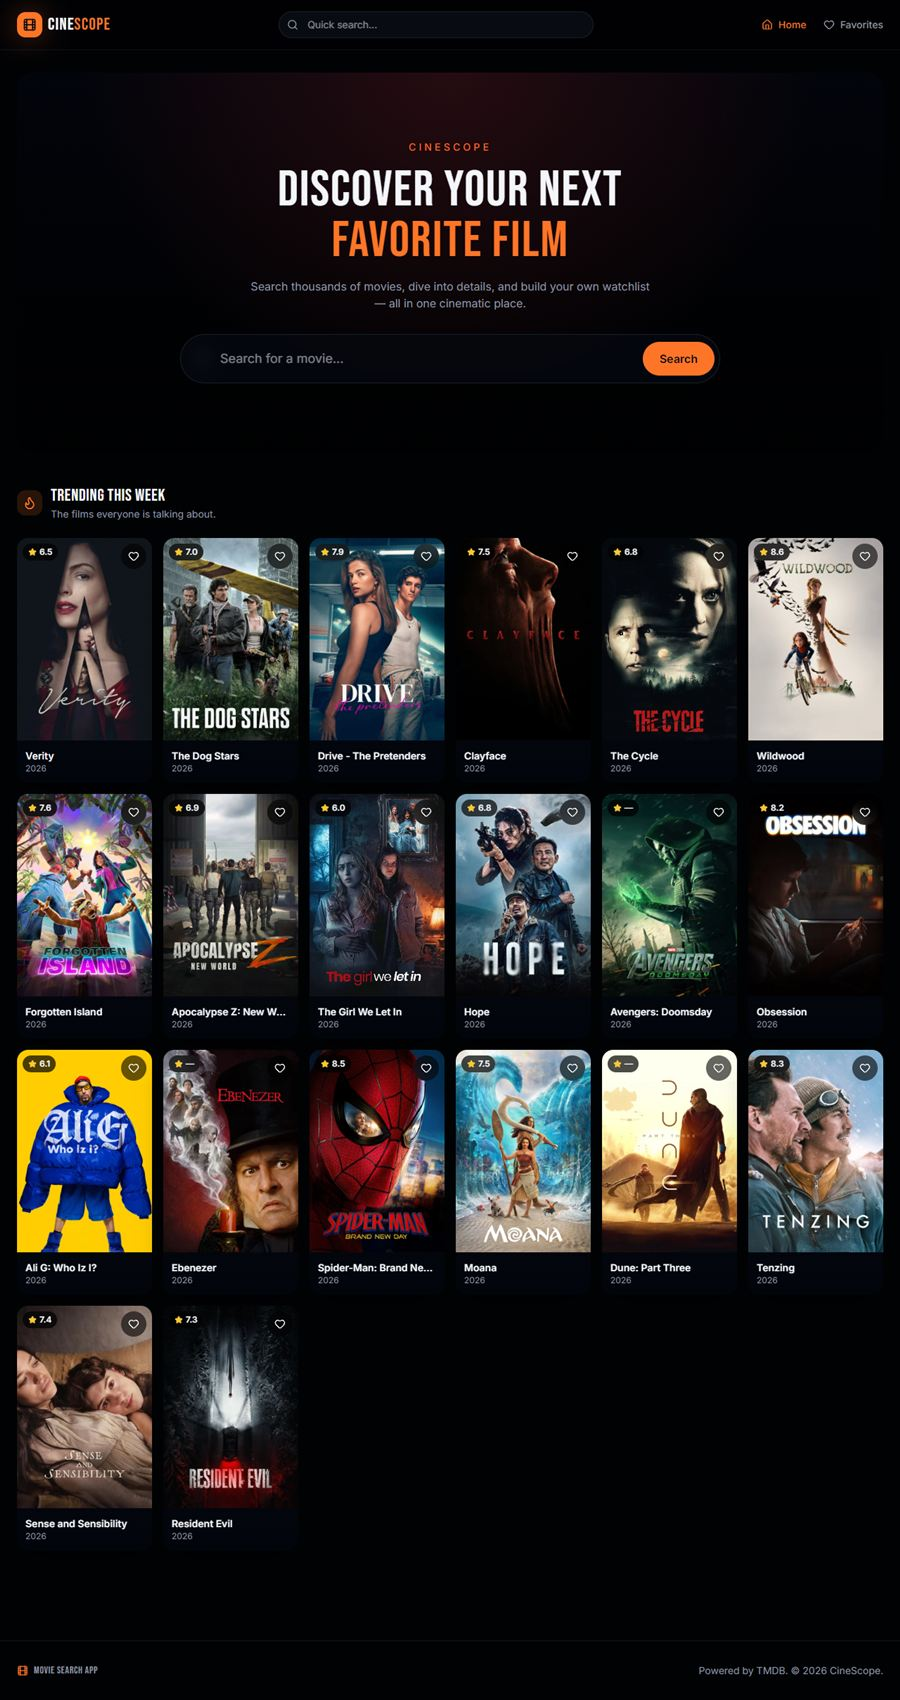
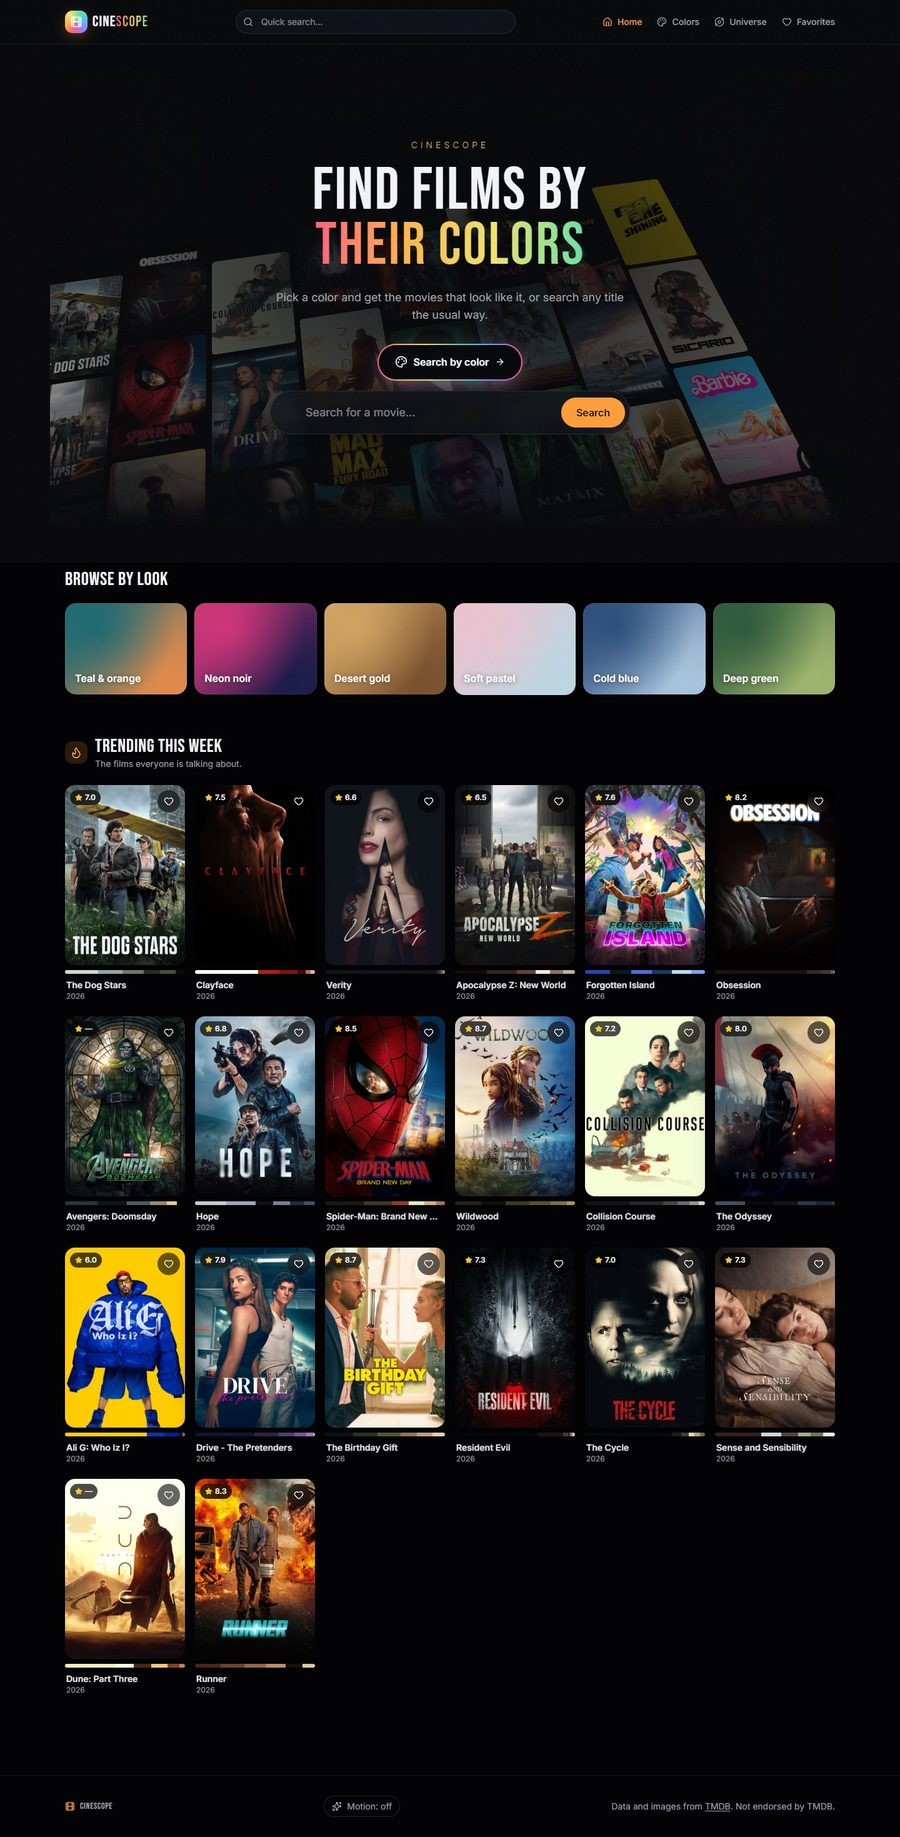
Show the new CineScope on the Work page

diff --git a/work.html b/work.html
@@ -212,15 +212,15 @@ valid BHF archive: 3 entries</pre>
           <article class="card" style="--i:2" data-card>
             <div class="card-info">
               <h2 class="card-title">Cinescope</h2>
-              <p class="card-stack" data-i18n="cine.stack">React, TypeScript, TanStack, Tailwind</p>
-              <p class="card-desc" data-i18n="cine.desc">A movie discovery app. Search thousands of films, open the details, and save favorites to your own watchlist.</p>
+              <p class="card-stack" data-i18n="cine.stack">React, TypeScript, three.js, Python</p>
+              <p class="card-desc" data-i18n="cine.desc">Find films by their colors: a color wheel, photo matching, a 3D color universe, and visual styles found by k-means clustering.</p>
               <p class="card-links">
                 <a href="https://cinescope-gamma-ruby.vercel.app"><span data-i18n="card.live">Live site</span><svg class="i-arrow" aria-hidden="true"><use href="#i-arrow"/></svg></a>
                 <a href="https://github.com/ramezGamel01/CINESCOPE"><span data-i18n="card.code">Source code</span><svg class="i-arrow" aria-hidden="true"><use href="#i-arrow"/></svg></a>
               </p>
             </div>
             <a class="card-shot is-long" href="https://cinescope-gamma-ruby.vercel.app" tabindex="-1" aria-hidden="true" style="--scroll-dur:5s">
-              <img src="assets/work/cinescope-full.jpg" alt="" width="900" height="1700" loading="lazy">
+              <img src="assets/work/cinescope-full.jpg" alt="" width="900" height="1837" loading="lazy">
             </a>
           </article>
 

diff --git a/i18n.js b/i18n.js
@@ -125,8 +125,8 @@ window.I18N = {
     "work.stat.1": "مشاريع مختارة",
     "work.stat.2": "هدفًا لاختبار التشويش",
     "work.stat.3": "موقعًا منشورًا",
-    "cine.stack": "React، TypeScript، TanStack، Tailwind",
-    "cine.desc": "تطبيق لاكتشاف الأفلام. ابحث بين آلاف الأفلام، واطّلع على تفاصيلها، واحفظ ما يعجبك في قائمة مشاهدتك.",
+    "cine.stack": "React، TypeScript، three.js، Python",
+    "cine.desc": "ابحث عن الأفلام بألوانها: عجلة ألوان، ومطابقة الصور، وكون ألوان ثلاثي الأبعاد، وأساليب بصرية اكتشفها التجميع بخوارزمية k-means.",
     "rihla.stack": "HTML، CSS",
     "rihla.desc": "موقع متعدد الصفحات لحجز رحلات الحافلات داخل مصر: بحث عن الرحلات، واختيار المقاعد، ودفع على خطوات، ولوحة لإدارة الحجوزات.",
     "task.stack": "React، TypeScript، Tailwind",
